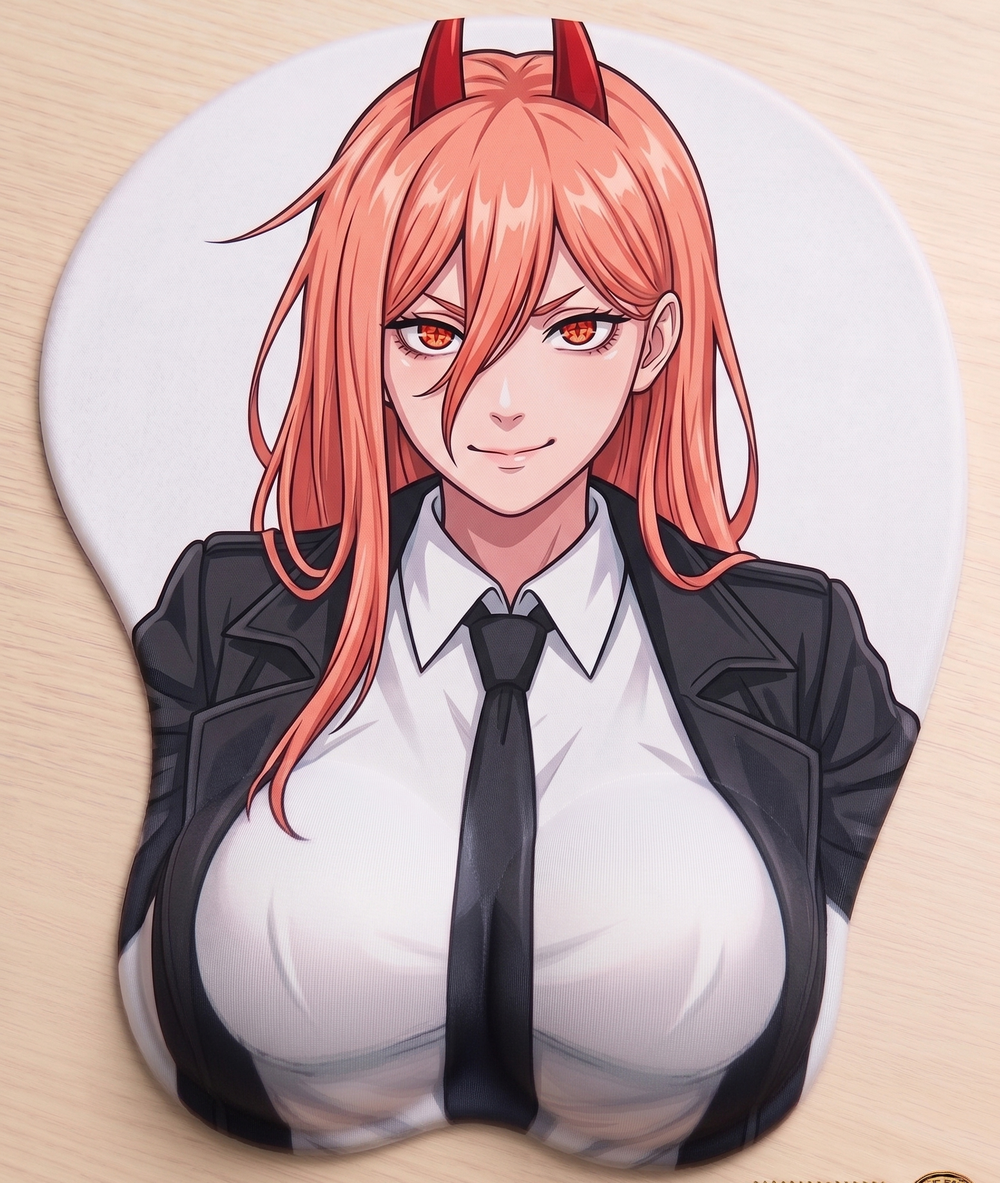
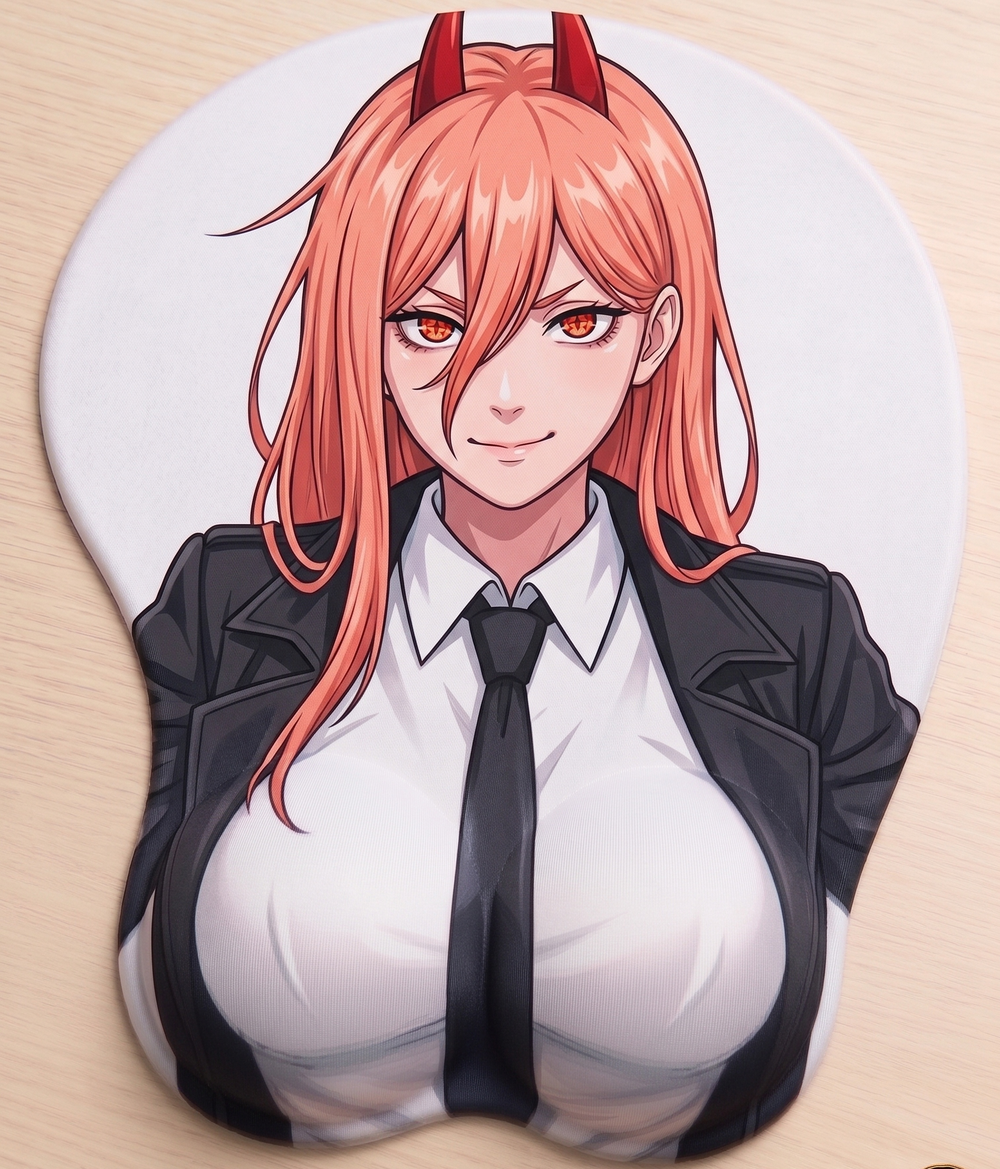
a

diff --git a/Mousepads/fit_images.py b/Mousepads/fit_images.py
@@ -1,0 +1,35 @@
+import os
+from PIL import Image
+
+fitted_dir = '/Users/thunderopsai/Documents/Workspace/01_Projects/ecomm-website/Mousepads/fitted_images'
+target_w, target_h = 354, 414
+target_ratio = target_w / target_h
+
+for filename in os.listdir(fitted_dir):
+    if filename.startswith('Gemini_') and filename.lower().endswith(('.jpg', '.jpeg', '.png')):
+        filepath = os.path.join(fitted_dir, filename)
+        img = Image.open(filepath)
+        w, h = img.size
+        
+        current_ratio = w / h
+        
+        if current_ratio < target_ratio:
+            # Image is too tall, crop height
+            new_w = w
+            new_h = int(w / target_ratio)
+        else:
+            # Image is too wide, crop width
+            new_h = h
+            new_w = int(h * target_ratio)
+            
+        left = (w - new_w) / 2
+        top = (h - new_h) / 2
+        right = (w + new_w) / 2
+        bottom = (h + new_h) / 2
+        
+        cropped_img = img.crop((left, top, right, bottom))
+        # Save over the original in fitted_images
+        cropped_img.save(filepath, quality=95)
+        print(f"Processed {filename}: {w}x{h} -> {new_w}x{new_h}")
+
+print("Done.")
